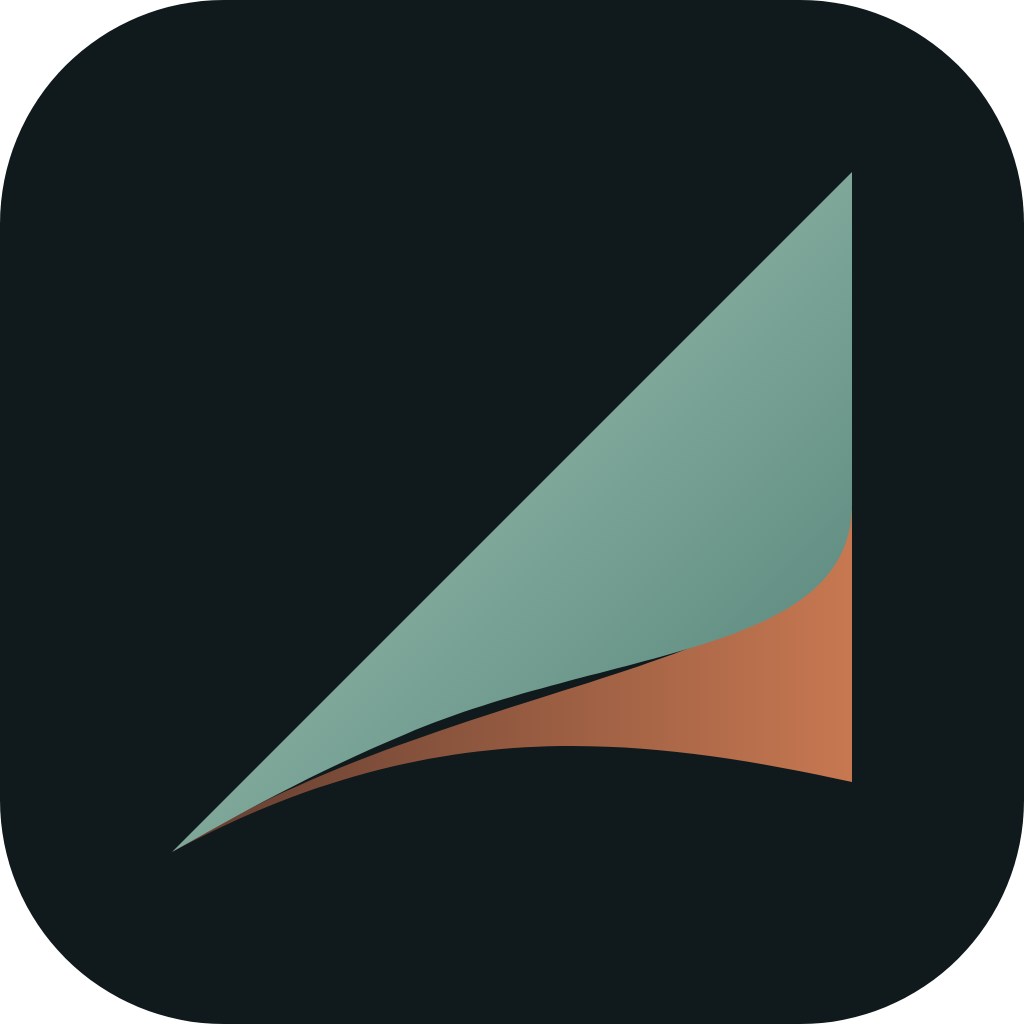
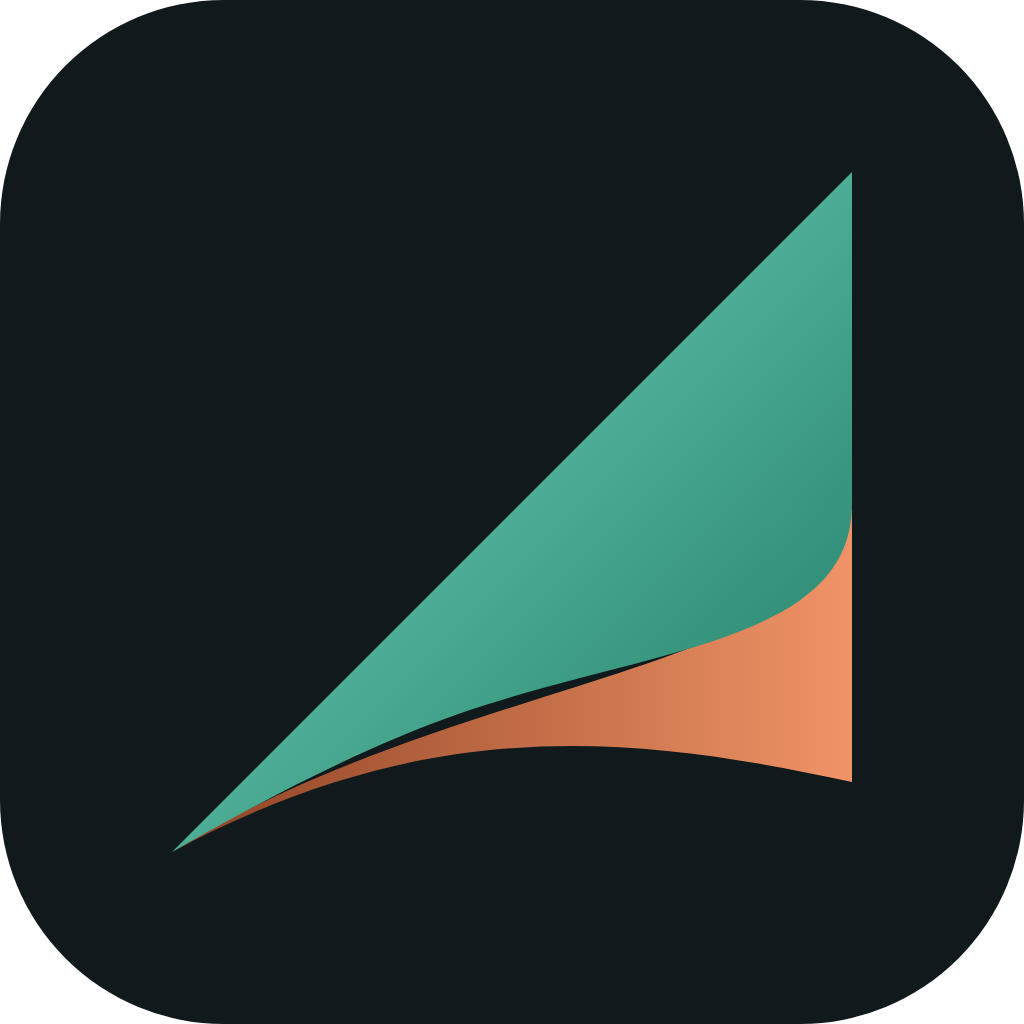
Unify Keel canonical palette, brand guide, and rendered sail assets

Changed region(s): [[0.1875, 0.1562, 0.8438, 0.8125]]

diff --git a/docs/brand/preview.html b/docs/brand/preview.html
@@ -2,9 +2,9 @@
 <html lang="en"><meta charset="utf-8"><meta name="viewport" content="width=device-width,initial-scale=1">
 <title>Keel — visual identity</title>
 <style>
-*{box-sizing:border-box}body{margin:0;background:#101a1c;color:#f7f3e9;font:16px/1.6 system-ui,sans-serif}main{max-width:1100px;margin:auto;padding:64px 40px}.eyebrow{color:#acd0c0;font-size:12px;letter-spacing:.15em;text-transform:uppercase}.hero{display:grid;grid-template-columns:1fr 1fr;gap:64px;align-items:center;margin:36px 0 64px}.hero>img{width:100%}h1{display:flex;align-items:center;gap:12px;font-size:68px;letter-spacing:-.05em;font-weight:500;margin:0}h1 img{width:76px}p{color:#b6c1bb;max-width:360px}h2{font-size:14px;font-weight:500;margin:36px 0 20px}.sizes{display:flex;align-items:end;gap:32px;flex-wrap:wrap}.sizes figure{margin:0}.sizes figcaption{color:#b6c1bb;font-size:12px;margin-top:12px}.palette{display:flex;gap:24px;flex-wrap:wrap}.palette span{padding:12px 20px;border-radius:6px;color:#101a1c}.mono{display:flex;gap:24px}.mono div{padding:16px;border-radius:12px;background:#f7f3e9}.mono img{width:88px;display:block}@media(max-width:600px){main{padding:32px 24px}.hero{grid-template-columns:1fr;gap:32px}h1{font-size:56px}.sizes{gap:20px}}
+*{box-sizing:border-box}body{margin:0;background:#0a1112;color:#eef4f2;font:16px/1.6 system-ui,sans-serif}main{max-width:1100px;margin:auto;padding:64px 40px}.eyebrow{color:#76dfc2;font-size:12px;letter-spacing:.15em;text-transform:uppercase}.hero{display:grid;grid-template-columns:1fr 1fr;gap:64px;align-items:center;margin:36px 0 64px}.hero>img{width:100%}h1{display:flex;align-items:center;gap:12px;font-size:68px;letter-spacing:-.05em;font-weight:600;color:#f7f3e9;margin:0}h1 img{width:76px}p{color:#8ca3a0;max-width:380px}h2{font-size:14px;font-weight:500;color:#f7f3e9;margin:36px 0 20px}.sizes{display:flex;align-items:end;gap:32px;flex-wrap:wrap}.sizes figure{margin:0}.sizes figcaption{color:#8ca3a0;font-size:12px;margin-top:12px}.palette{display:flex;gap:14px;flex-wrap:wrap}.palette span{padding:12px 18px;border-radius:8px;font-weight:600;font-size:14px}.mono{display:flex;gap:24px}.mono div{padding:16px;border-radius:12px;background:#f7f3e9}.mono img{width:88px;display:block}@media(max-width:600px){main{padding:32px 24px}.hero{grid-template-columns:1fr;gap:32px}h1{font-size:56px}.sizes{gap:20px}}
 </style>
-<main><div class="eyebrow">Keel / Visual identity</div><section class="hero"><img src="icon.svg" alt="Keel jade and rust sail icon"><div><h1><img src="mark.svg" alt="">Keel</h1><p>A Rust coding-agent harness.</p><p>One leading edge. Two connected surfaces. A clear direction.</p></div></section>
+<main><div class="eyebrow">Keel / Visual identity</div><section class="hero"><img src="icon.svg" alt="Keel jade and rust sail icon"><div><h1><img src="mark.svg" alt="">Keel</h1><p>Local-first AI that works on everyday hardware.</p><p>One leading edge. Two connected surfaces. A clear direction across CLI, Desktop, Mobile, Console, and Arena.</p></div></section>
 <h2>At a glance</h2><div class="sizes"><figure><img src="icon-256.png" width="256" height="256" alt="Keel at 256 pixels"><figcaption>256 px</figcaption></figure><figure><img src="icon-128.png" width="128" height="128" alt="Keel at 128 pixels"><figcaption>128 px</figcaption></figure><figure><img src="icon-32.png" width="32" height="32" alt="Keel at 32 pixels"><figcaption>32 px</figcaption></figure></div>
-<h2>Colour</h2><div class="palette"><span style="background:#709c8f">Jade · #709c8f</span><span style="background:#b66e4f">Rust · #b66e4f</span><span style="background:#f7f3e9">Paper · #f7f3e9</span></div>
+<h2>Colour</h2><div class="palette"><span style="background:#0a1112;color:#f7f3e9;border:1px solid #223538">Ink · #0a1112</span><span style="background:#101a1c;color:#f7f3e9;border:1px solid #223538">Surface · #101a1c</span><span style="background:#36b394;color:#0a1112">Jade · #36b394</span><span style="background:#76dfc2;color:#0a1112">Jade Bright · #76dfc2</span><span style="background:#dc7648;color:#0a1112">Rust · #dc7648</span><span style="background:#f7f3e9;color:#0a1112">Paper · #f7f3e9</span></div>
 <h2>Transparent & single colour</h2><div class="mono"><div><img src="mark.svg" alt="Colour symbol on paper"></div><div><img src="mark-mono.svg" alt="Single colour symbol on paper"></div></div></main></html>

diff --git a/docs/brand/README.md b/docs/brand/README.md
@@ -1,4 +1,4 @@
-# Keel visual identity
+# Keel visual identity & product family
 
 ![Keel icon, wordmark and size variants](preview.png)
 
@@ -6,15 +6,25 @@ The sail carries the supplied Flow direction into a simple vector mark: a jade
 leading surface, a rust underside, and an ink tile. The two surfaces meet along
 one continuous curve. No texture, tiny outlines or drop shadows are needed.
 
-| Colour | Value | Use |
-| --- | --- | --- |
-| Jade | `#709c8f` | Leading surface |
-| Rust | `#b66e4f` | Underside |
-| Ink | `#101a1c` | Icon background |
-| Paper | `#f7f3e9` | Wordmark on dark surfaces |
+## Canonical palette
 
-- `icon.svg`: rounded app tile; PNG exports at 32, 128, 256, 512 and 1024px.
-- `mark.svg`: transparent symbol for headers and future app integrations.
+| Token | Value | Light-mode pair | Use |
+| --- | --- | --- | --- |
+| Ink | `#0a1112` | — | Primary dark canvas |
+| Surface | `#101a1c` | `#ffffff` | Icon tile, cards, panels |
+| Surface Raised | `#162426` | `#ece6d9` | Hover states, nested rows |
+| Paper | `#f7f3e9` | `#f3eee4` | Light canvas, primary CTAs, dark-surface wordmark |
+| Foam | `#eef4f2` | `#2a241c` | Primary body copy |
+| Muted | `#8ca3a0` | `#7a7266` | Secondary labels and metadata |
+| Jade | `#36b394` | `#1e705c` | Leading sail surface, active brand accent |
+| Jade Bright | `#76dfc2` | — | Focus rings, highlights, dark-mode UI accent |
+| Jade Deep | `#217a65` | `#1e705c` | Sail gradient shadow, pressed accent |
+| Rust | `#dc7648` | `#9e4722` | Sail underside, hardware/section markers |
+| Rust Bright | `#f09467` | — | Sail underside highlight |
+| Rust Deep | `#8f4224` | `#9e4722` | Sail underside shadow |
+
+- `icon.svg`: rounded app tile (`#101a1c` tile with `#76dfc2 → #217a65` Jade and `#8f4224 → #f09467` Rust); PNG exports at 32, 128, 256, 512 and 1024px.
+- `mark.svg`: transparent symbol for headers and app integrations.
 - `mark-mono.svg`: flat single-colour symbol; inherits `currentColor` inline.
 - `preview.html`: inspect the mark, wordmark, colour and small-size variants.
 
@@ -22,8 +32,17 @@ Keep the symbol proportional. Leave at least one quarter of its width as clear
 space. Use the flat mark for single-colour output. The wordmark uses the host's
 sans-serif typeface and remains live text, so it needs no bundled font.
 
-The supplied “Flow v1.2.2” board is a design reference, not a software version or
-a production-release claim. These assets do not change the CLI or TUI palette.
+These assets do not change the CLI or TUI terminal palette.
 
 To re-export a PNG, render `icon.svg` at its exact target size on a transparent
 canvas in a browser. The supplied PNGs were rendered headlessly in Chromium.
+
+## Product family
+
+| Product | Surface | Role |
+| --- | --- | --- |
+| **Keel** | CLI & TUI (`keel`) | Core Rust coding-agent harness for small local models |
+| **Keel Desktop** | macOS, Linux, Windows (`keel-desktop`) | GUI workspace (Chat, Work, Code, Apps, MCP) |
+| **Keel Mobile** | iOS (`keel-mobile`) | Standalone on-device iPhone agent on Metal |
+| **Keel Console** | Xbox Series S\|X / 10-ft TV (`keel-xbox`) | Living-room console app (WASM, LAN, UWP) |
+| **Keel Arena** | Python CLI (`keel-arena`) | Edge AI & agent benchmarking suite and SVG scorecards |

diff --git a/README.md b/README.md
@@ -5,7 +5,7 @@
 A **Rust CLI coding-agent harness** aimed at making **small local models**
 (2–27B, e.g. Bonsai and Qwen on llama.cpp) do useful coding work. Private, early.
 
-[Visual identity and icon assets](docs/brand/README.md).
+[Visual identity, palette & Keel family](docs/brand/README.md) · [moesystems.com/keel](https://moesystems.com/keel/).
 
 ## What is true today
 
